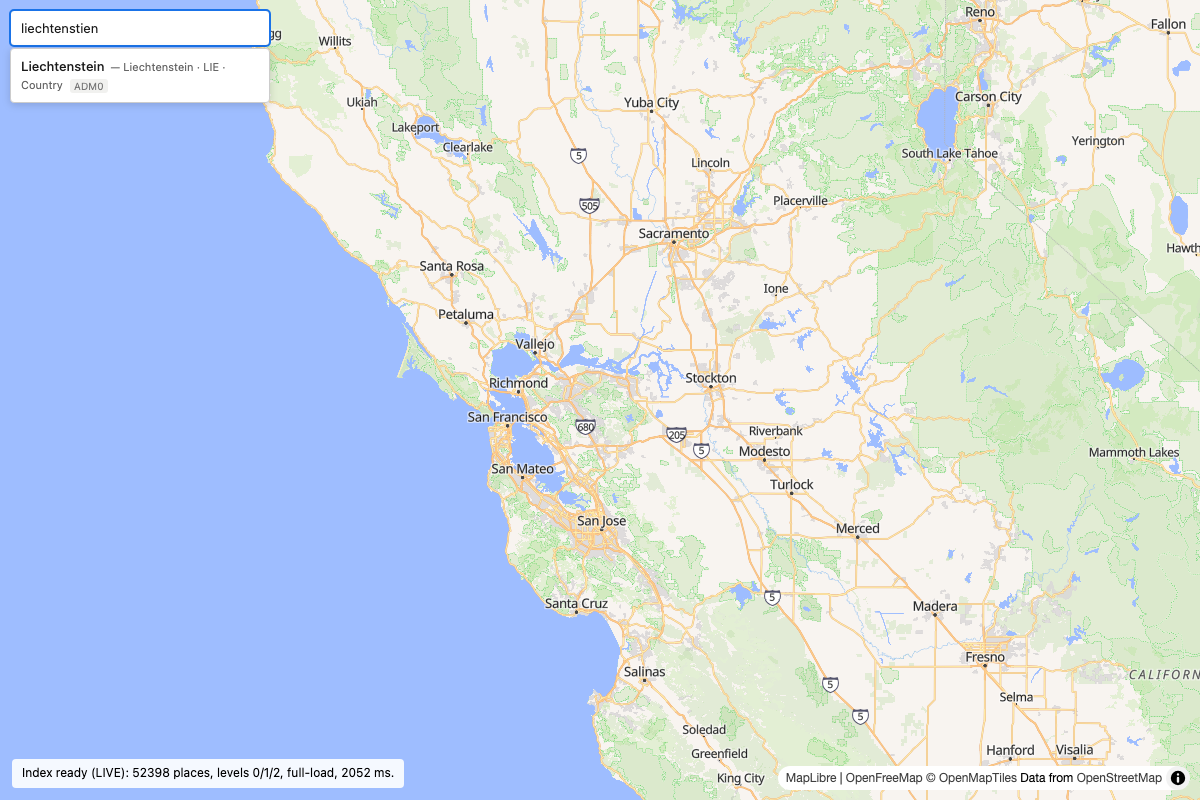
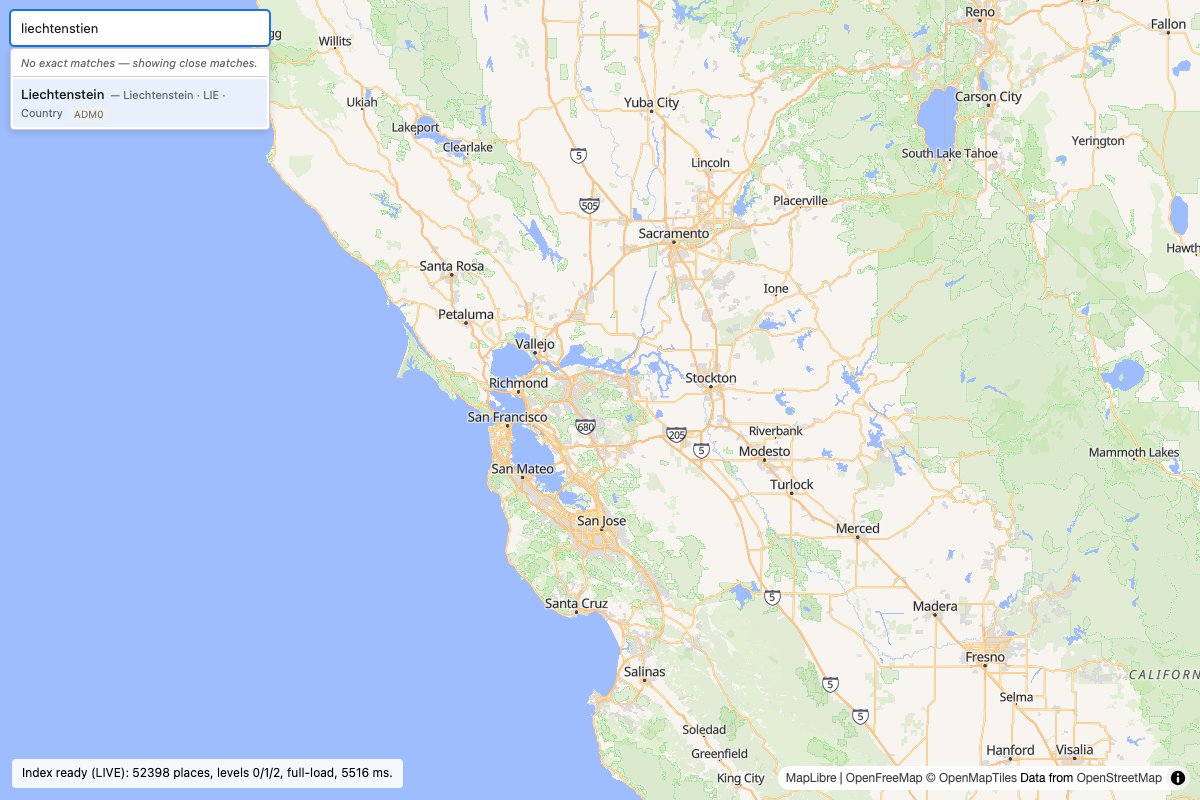
controls: caption fuzzy-fallback results in the dropdown
When every result carries rank.matchClass 'fuzzy' (which only happens when
the prefix search found nothing), both GeocoderControls now render a
non-interactive caption row above the options: 'No exact matches — showing
close matches.' role=presentation keeps it out of _setActive's
[role=option] index space and the mousedown picker, verified live with
keyboard-navigation assertions in verify-fuzzy.mjs.

Claude-Session: https://claude.ai/code/session_01NCUyfYoJW1YsifSC2aJmtw

Changed region(s): [[0.0, 0.0625, 0.2467, 0.1875], [0.2775, 0.9375, 0.3083, 0.9688]]

diff --git a/packages/maplibre/src/geocoder-control.js b/packages/maplibre/src/geocoder-control.js
@@ -96,6 +96,10 @@ const CSS = `
 .cnmw-geocoder .cnmw-option-meta { color: var(--cnmw-meta); font-size: 11px; margin-left: 6px; }
 .cnmw-geocoder .cnmw-more { color: var(--cnmw-meta); cursor: default; }
 .cnmw-geocoder .cnmw-empty, .cnmw-geocoder .cnmw-loading, .cnmw-geocoder .cnmw-searching { padding: 8px; color: var(--cnmw-meta); }
+.cnmw-geocoder .cnmw-fuzzy-note {
+  padding: 4px 8px 5px; color: var(--cnmw-meta); font-size: 11px; font-style: italic; cursor: default;
+  border-bottom: 1px solid var(--cnmw-border); margin-bottom: 2px;
+}
 .cnmw-geocoder .cnmw-error {
   padding: 8px; color: var(--cnmw-error); background: var(--cnmw-error-bg);
   display: flex; align-items: center; justify-content: space-between; gap: 8px; cursor: default;
@@ -569,6 +573,18 @@ export class GeocoderControl {
       }
       this._input.removeAttribute('aria-activedescendant');
       return;
+    }
+
+    // Fuzzy results only ever appear when the prefix search found nothing
+    // (geocoder-core's gazet-inspired fallback), so one caption covers the
+    // whole list. role="presentation" keeps it out of _setActive's
+    // [role="option"] index space and the mousedown picker.
+    if (results[0]?.rank?.matchClass === 'fuzzy') {
+      const note = document.createElement('li');
+      note.className = 'cnmw-fuzzy-note';
+      note.setAttribute('role', 'presentation');
+      note.textContent = 'No exact matches — showing close matches.';
+      listbox.appendChild(note);
     }
 
     results.forEach((r, i) => {

diff --git a/packages/openlayers/src/geocoder-control.js b/packages/openlayers/src/geocoder-control.js
@@ -108,6 +108,10 @@ const CSS = `
 .cnmw-geocoder-ol .cnmw-empty, .cnmw-geocoder-ol .cnmw-loading, .cnmw-geocoder-ol .cnmw-searching {
   padding: 8px; color: var(--cnmw-meta);
 }
+.cnmw-geocoder-ol .cnmw-fuzzy-note {
+  padding: 4px 8px 5px; color: var(--cnmw-meta); font-size: 11px; font-style: italic; cursor: default;
+  border-bottom: 1px solid var(--cnmw-border); margin-bottom: 2px;
+}
 .cnmw-geocoder-ol .cnmw-error {
   padding: 8px; color: var(--cnmw-error); background: var(--cnmw-error-bg);
   display: flex; align-items: center; justify-content: space-between; gap: 8px; cursor: default;
@@ -507,6 +511,18 @@ export class GeocoderControl extends Control {
       }
       this._input.removeAttribute('aria-activedescendant');
       return;
+    }
+
+    // Fuzzy results only ever appear when the prefix search found nothing
+    // (geocoder-core's gazet-inspired fallback), so one caption covers the
+    // whole list. role="presentation" keeps it out of _setActive's
+    // [role="option"] index space and the mousedown picker.
+    if (results[0]?.rank?.matchClass === 'fuzzy') {
+      const note = document.createElement('li');
+      note.className = 'cnmw-fuzzy-note';
+      note.setAttribute('role', 'presentation');
+      note.textContent = 'No exact matches — showing close matches.';
+      listbox.appendChild(note);
     }
 
     results.forEach((r, i) => {

diff --git a/packages/openlayers/README.md b/packages/openlayers/README.md
@@ -238,6 +238,18 @@ split already happened in `@cnmw/spec`. Do not feed it a signed
 
 ---
 
+## Dropdown states
+
+Besides plain options, the listbox renders: a spinner row while loading or
+searching, an error row with a Retry button, a `No matches for "…".` row,
+and — when geocoder-core's fuzzy fallback produced the results (every
+`rank.matchClass` is `'fuzzy'`, which only happens when the prefix search
+found nothing) — a non-interactive caption row above them:
+*No exact matches — showing close matches.* (`li.cnmw-fuzzy-note`,
+`role="presentation"`, excluded from keyboard navigation and click
+handling). A custom `renderItem` only replaces option contents; the caption
+still renders.
+
 ## Gotchas
 
 **`options.geocoder` has no default**, exactly as in the MapLibre adapter, and

diff --git a/packages/maplibre/README.md b/packages/maplibre/README.md
@@ -323,6 +323,18 @@ measured weight that comparison was based on.
 
 ---
 
+## Dropdown states
+
+Besides plain options, the listbox renders: a spinner row while loading or
+searching, an error row with a Retry button, a `No matches for "…".` row,
+and — when geocoder-core's fuzzy fallback produced the results (every
+`rank.matchClass` is `'fuzzy'`, which only happens when the prefix search
+found nothing) — a non-interactive caption row above them:
+*No exact matches — showing close matches.* (`li.cnmw-fuzzy-note`,
+`role="presentation"`, excluded from keyboard navigation and click
+handling). A custom `renderItem` only replaces option contents; the caption
+still renders.
+
 ## Gotchas
 
 **`options.geocoder` has no default.** The design doc listed a
